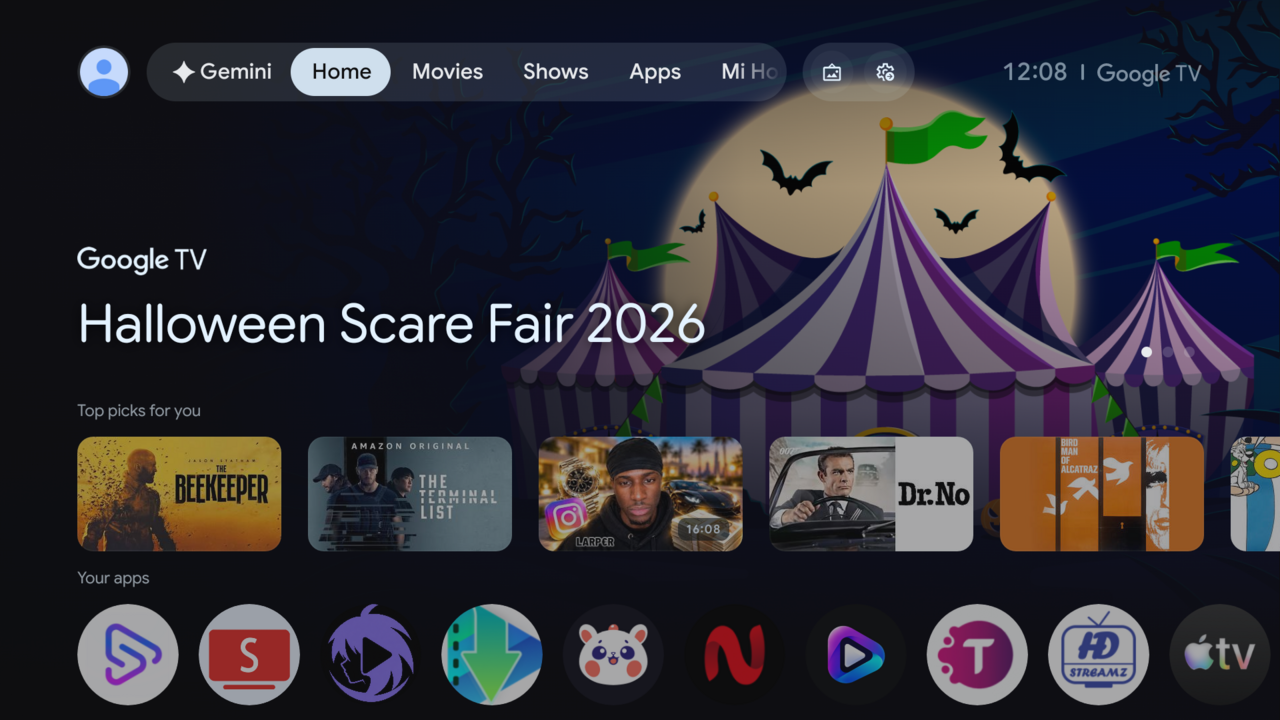
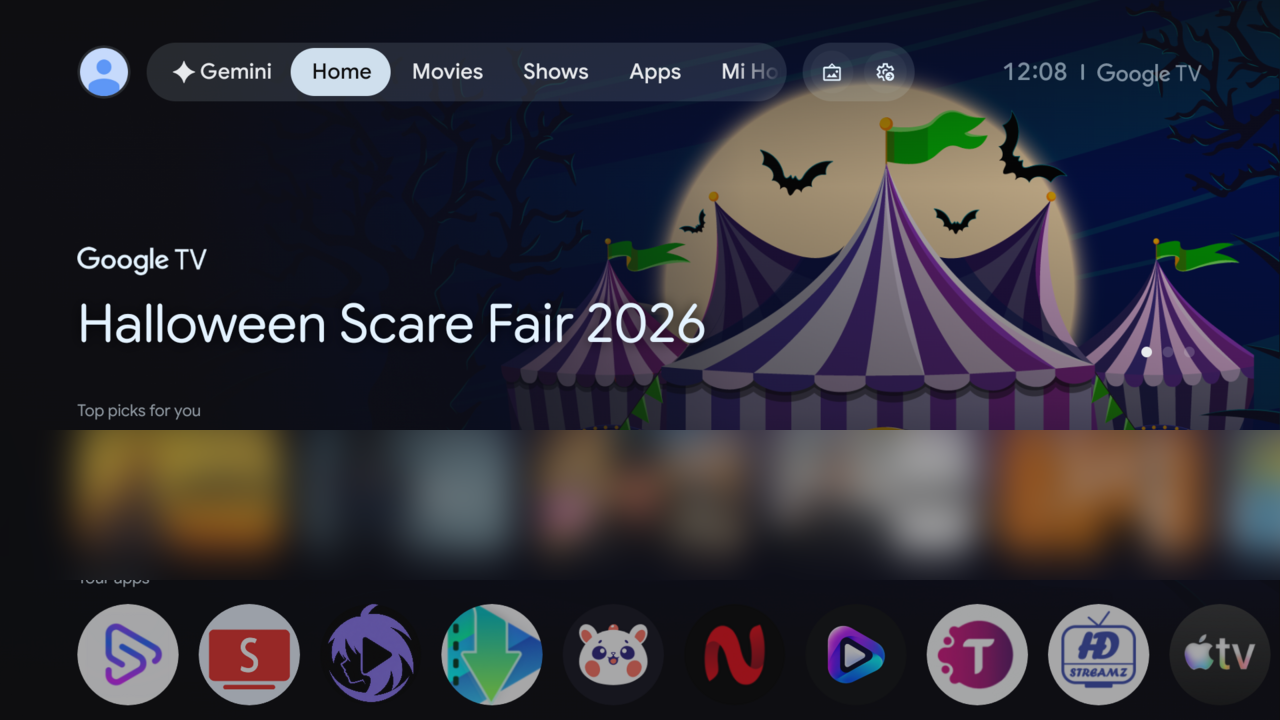
README: showcase the three home styles; verified remote on each
Fresh screenshots of Cinema, Glass and Top Shelf (home + All apps), the
quick panel and the screensaver. Personalised recommendations blurred in
the stock Google TV shot; metadata stripped.

Changed region(s): [[0.0312, 0.5806, 1.0, 0.7944], [0.0625, 0.7944, 0.125, 0.825]]

diff --git a/README.md b/README.md
@@ -5,10 +5,29 @@ Apple TV-style launcher. Profiles included for a Xiaomi Mi TV Stick 4K and a Con
 CDI Smart TV (MediaTek); other Google TVs need a profile of their own. Inspired by
 [mihirgupta0900/tv-home](https://github.com/mihirgupta0900/tv-home).
 
-| Before | After |
+| Stock Google TV | TV Home (Cinema) |
 |---|---|
-| ![Stock Google TV](docs/before-google-tv.png) | ![TV Home](docs/home.png) |
-| ![All apps](docs/all-apps.png) | ![Hold-Home quick panel](docs/quick-panel.png) |
+| ![Stock Google TV](docs/before-google-tv.png) | ![TV Home, Cinema style](docs/cinema-home.png) |
+
+## Home styles
+Three looks ship in the same app. Switch with the remote: hold **Home** → **Home style**
+(cycles Cinema → Glass → Top Shelf), or from a computer:
+`adb shell am broadcast -a com.tvhome.launcher.CONFIGURE -n com.tvhome.launcher/.ConfigReceiver --es style cinema|glass|shelf`.
+Every style keeps the same remote buttons, dock and long-press editing.
+
+| Style | Home | All apps |
+|---|---|---|
+| **Cinema** (default): glossy rounded-square logos, the focused app's name in large type, a glow in its colour | ![Cinema home](docs/cinema-home.png) | ![Cinema app library](docs/cinema-apps.png) |
+| **Glass**: centred glossy squares with a coloured floor reflection; frosted app library | ![Glass home](docs/glass-home.png) | ![Glass app library](docs/glass-apps.png) |
+| **Top Shelf** (Apple TV-like): the wallpaper as a full-width shelf over one grid, favourites first | ![Top Shelf home](docs/shelf-home.png) | ![Top Shelf scrolled into the grid](docs/shelf-apps.png) |
+
+Logos are cut out of each app's own TV banner (background cropped and keyed out) and placed on a
+two-tone glossy tile, all with plain drawables: no blur, video or network. All three use 130–140 MB
+while on screen on a 2 GB Mi TV Stick, and release ~40 MB of wallpaper bitmaps while another app is open.
+
+| Quick panel (hold Home) | Screensaver |
+|---|---|
+| ![Quick panel](docs/quick-panel.png) | ![Nature screensaver](docs/screensaver.png) |
 
 ## Setup
 ```bash
@@ -40,12 +59,7 @@ Everything here is reversible: apps are only *disabled* (`pm disable-user`), nev
 - **Hold Home** anywhere (even inside an app) for the quick panel: Network, Display & sound, Storage,
   Apps, Screensaver, Power (sleep / restart) and All settings. Back closes it and returns to the app.
   It works through a small accessibility service ("TV Home quick panel") that only watches the Home key.
-- Three looks, cycled from the quick panel (**Home style** tile) or set with
-  `--es style cinema|glass|shelf` on the CONFIGURE broadcast:
-  **Cinema** (default: glossy rounded-square logos, big title of the focused app, colour glow), **Glass**
-  (glossy rounded squares with the logo auto-cropped from the app's banner, floor reflection,
-  frosted app library) and **Top Shelf** (Apple TV-like: full-bleed wallpaper shelf over one grid,
-  favourites first, name shown only on the focused tile).
+- Three looks, see [Home styles](#home-styles).
 - The quick panel is a control centre: round quick actions (Wi-Fi, screensaver, power, settings)
   above pill controls (display & sound, storage with a usage bar, apps, home style).
 - While another app is open, TV Home releases its wallpaper bitmaps (about 40 MB on a Mi TV Stick).
